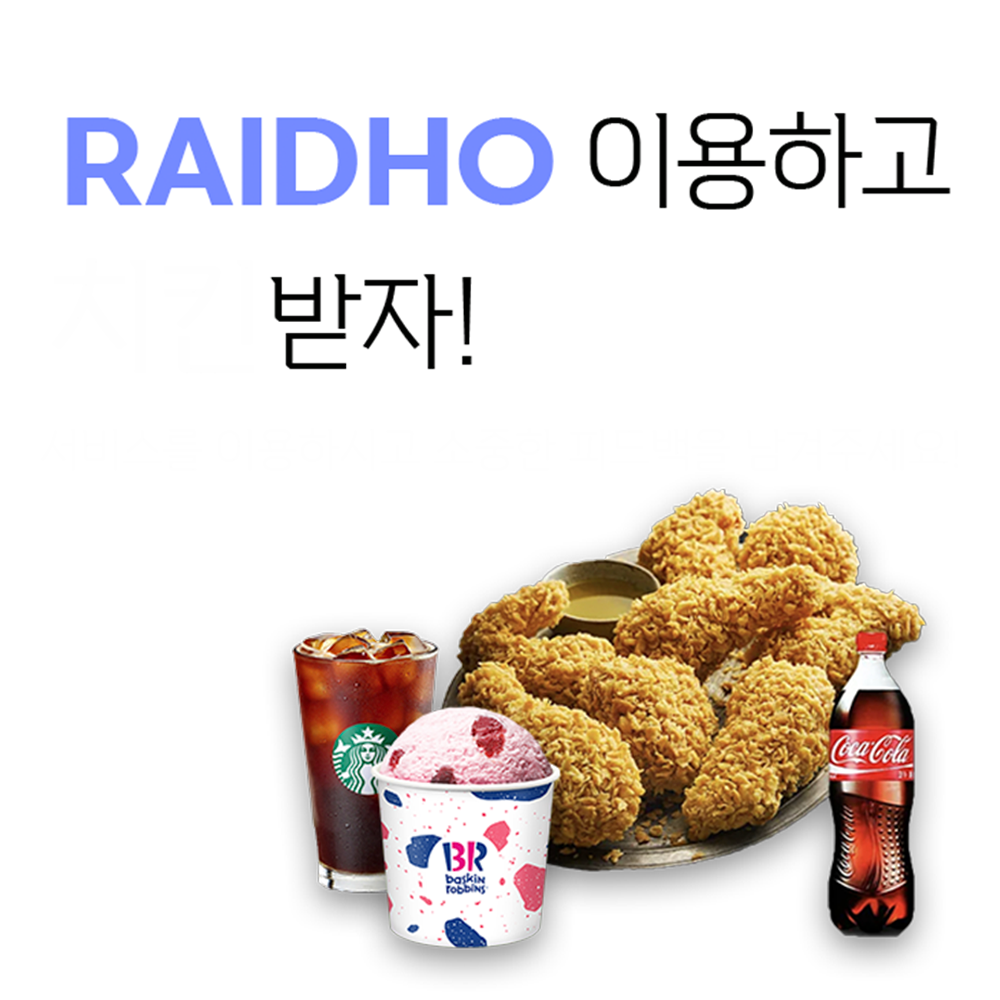
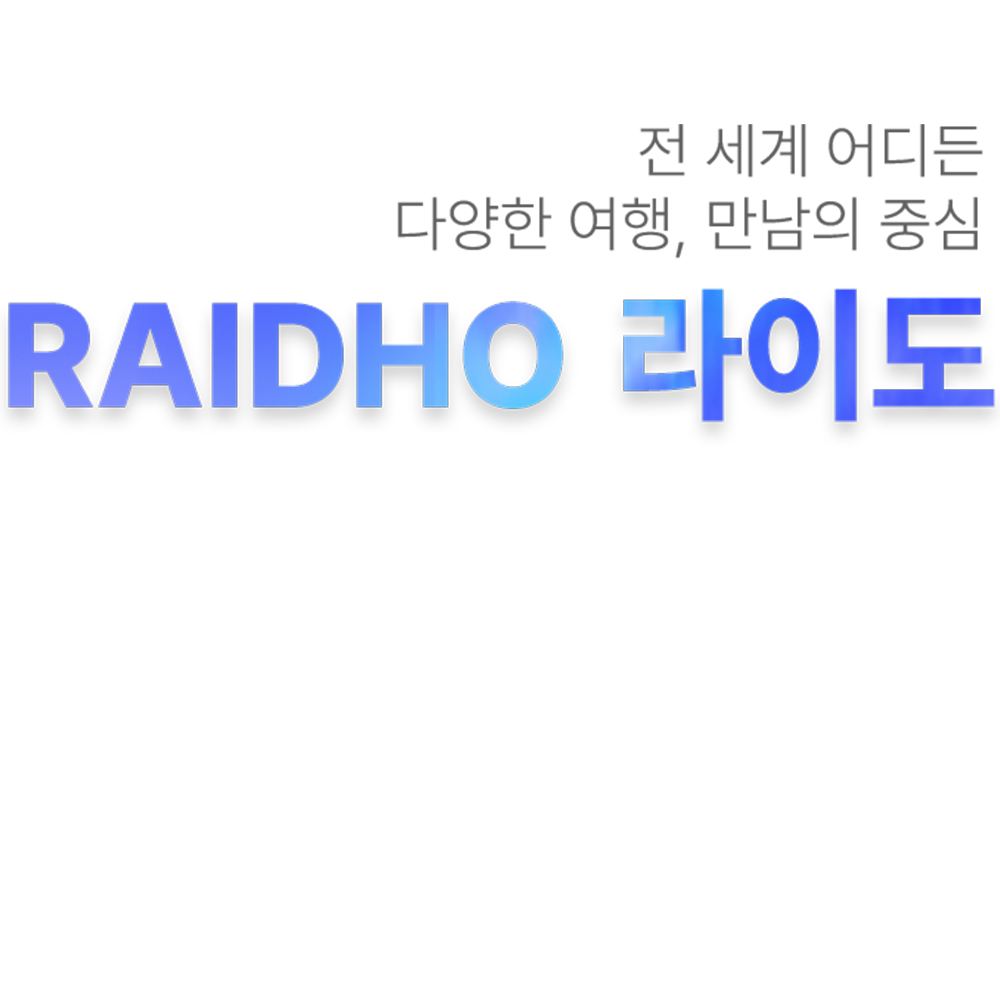
[FEAT] 메인 배너 설정

diff --git a/src/components/main/MainBanner.jsx b/src/components/main/MainBanner.jsx
@@ -2,9 +2,12 @@ import React, { useState, useEffect } from "react";
 import Slider from "react-slick";
 import "../../elements/slider/slick-theme.css";
 import "../../elements/slider/slick.css";
-import Banner from "../../assets/banner/bannerContent.png";
-import BannerBg from "../../assets/banner/bannerBg2.png";
-import BannerBgMobile from "../../assets/banner/bannerMobile1.png";
+import Banner2 from "../../assets/banner/bannerContent2.png";
+import BannerBg2 from "../../assets/banner/bannerBg2.png";
+import Banner1 from "../../assets/banner/bannerContent1.png";
+import BannerBg1 from "../../assets/banner/bannerBg1.png";
+import BannerBgMobile1 from "../../assets/banner/bannerMobile1.png";
+import BannerBgMobile2 from "../../assets/banner/bannerMobile2.png";
 import styled from "styled-components";
 
 const MainBanner = () => {
@@ -34,8 +37,13 @@ const MainBanner = () => {
   return (
     <StMainBannerWrap>
       <Slider {...settings}>
+        <div className="contentBox contentBox1">
+          <div className="centerBox">
+            <img src={isMobile ? BannerBgMobile1 : Banner1} alt="라이도" />
+          </div>
+        </div>
         <div
-          className="contentBox"
+          className="contentBox contentBox2"
           onClick={() =>
             window.open(
               "https://docs.google.com/forms/d/e/1FAIpQLSehlJ0ZeaBeZFfhWEiwtUOozM6A4RoYig-kxUAxdWDI4T4XEA/viewform",
@@ -45,13 +53,11 @@ const MainBanner = () => {
         >
           <div className="centerBox">
             <img
-              src={isMobile ? BannerBgMobile : Banner}
+              src={isMobile ? BannerBgMobile2 : Banner2}
               alt="라이도 서비스를 이용해주시고 피드백을 남겨주세요."
             />
           </div>
         </div>
-        <div className="contentBox">2</div>
-        <div className="contentBox">3</div>
       </Slider>
     </StMainBannerWrap>
   );
@@ -66,15 +72,21 @@ const StMainBannerWrap = styled.div`
   width: 99.7%;
   height: 375px;
   background-color: var(--gray-color);
-  background-image: url(${BannerBg});
-  background-repeat: repeat-x;
-  background-size: cover;
+
   .contentBox {
     text-align: center;
     line-height: 375px;
     width: 100%;
     height: 375px;
+    background-repeat: repeat-x;
+    background-size: cover;
     cursor: pointer;
+    &.contentBox1 {
+      background-image: url(${BannerBg1});
+    }
+    &.contentBox2 {
+      background-image: url(${BannerBg2});
+    }
     .centerBox {
       width: auto;
       max-width: 1305px;
@@ -94,6 +106,10 @@ const StMainBannerWrap = styled.div`
     .contentBox {
       height: 300px;
       line-height: 1;
+      &.contentBox1 {
+        background-size: auto 100%;
+        background-position-x: 45%;
+      }
       .centerBox {
         width: 100%;
         max-width: 300px;
